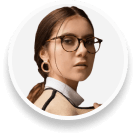
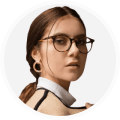
update_img_hero

diff --git a/src/css/hero.css b/src/css/hero.css
@@ -47,7 +47,7 @@
 }
 
 .iteam-list-hero {
-  margin-right: -12px;
+  margin-right: -16px;
 }
 
 .link-hero {
